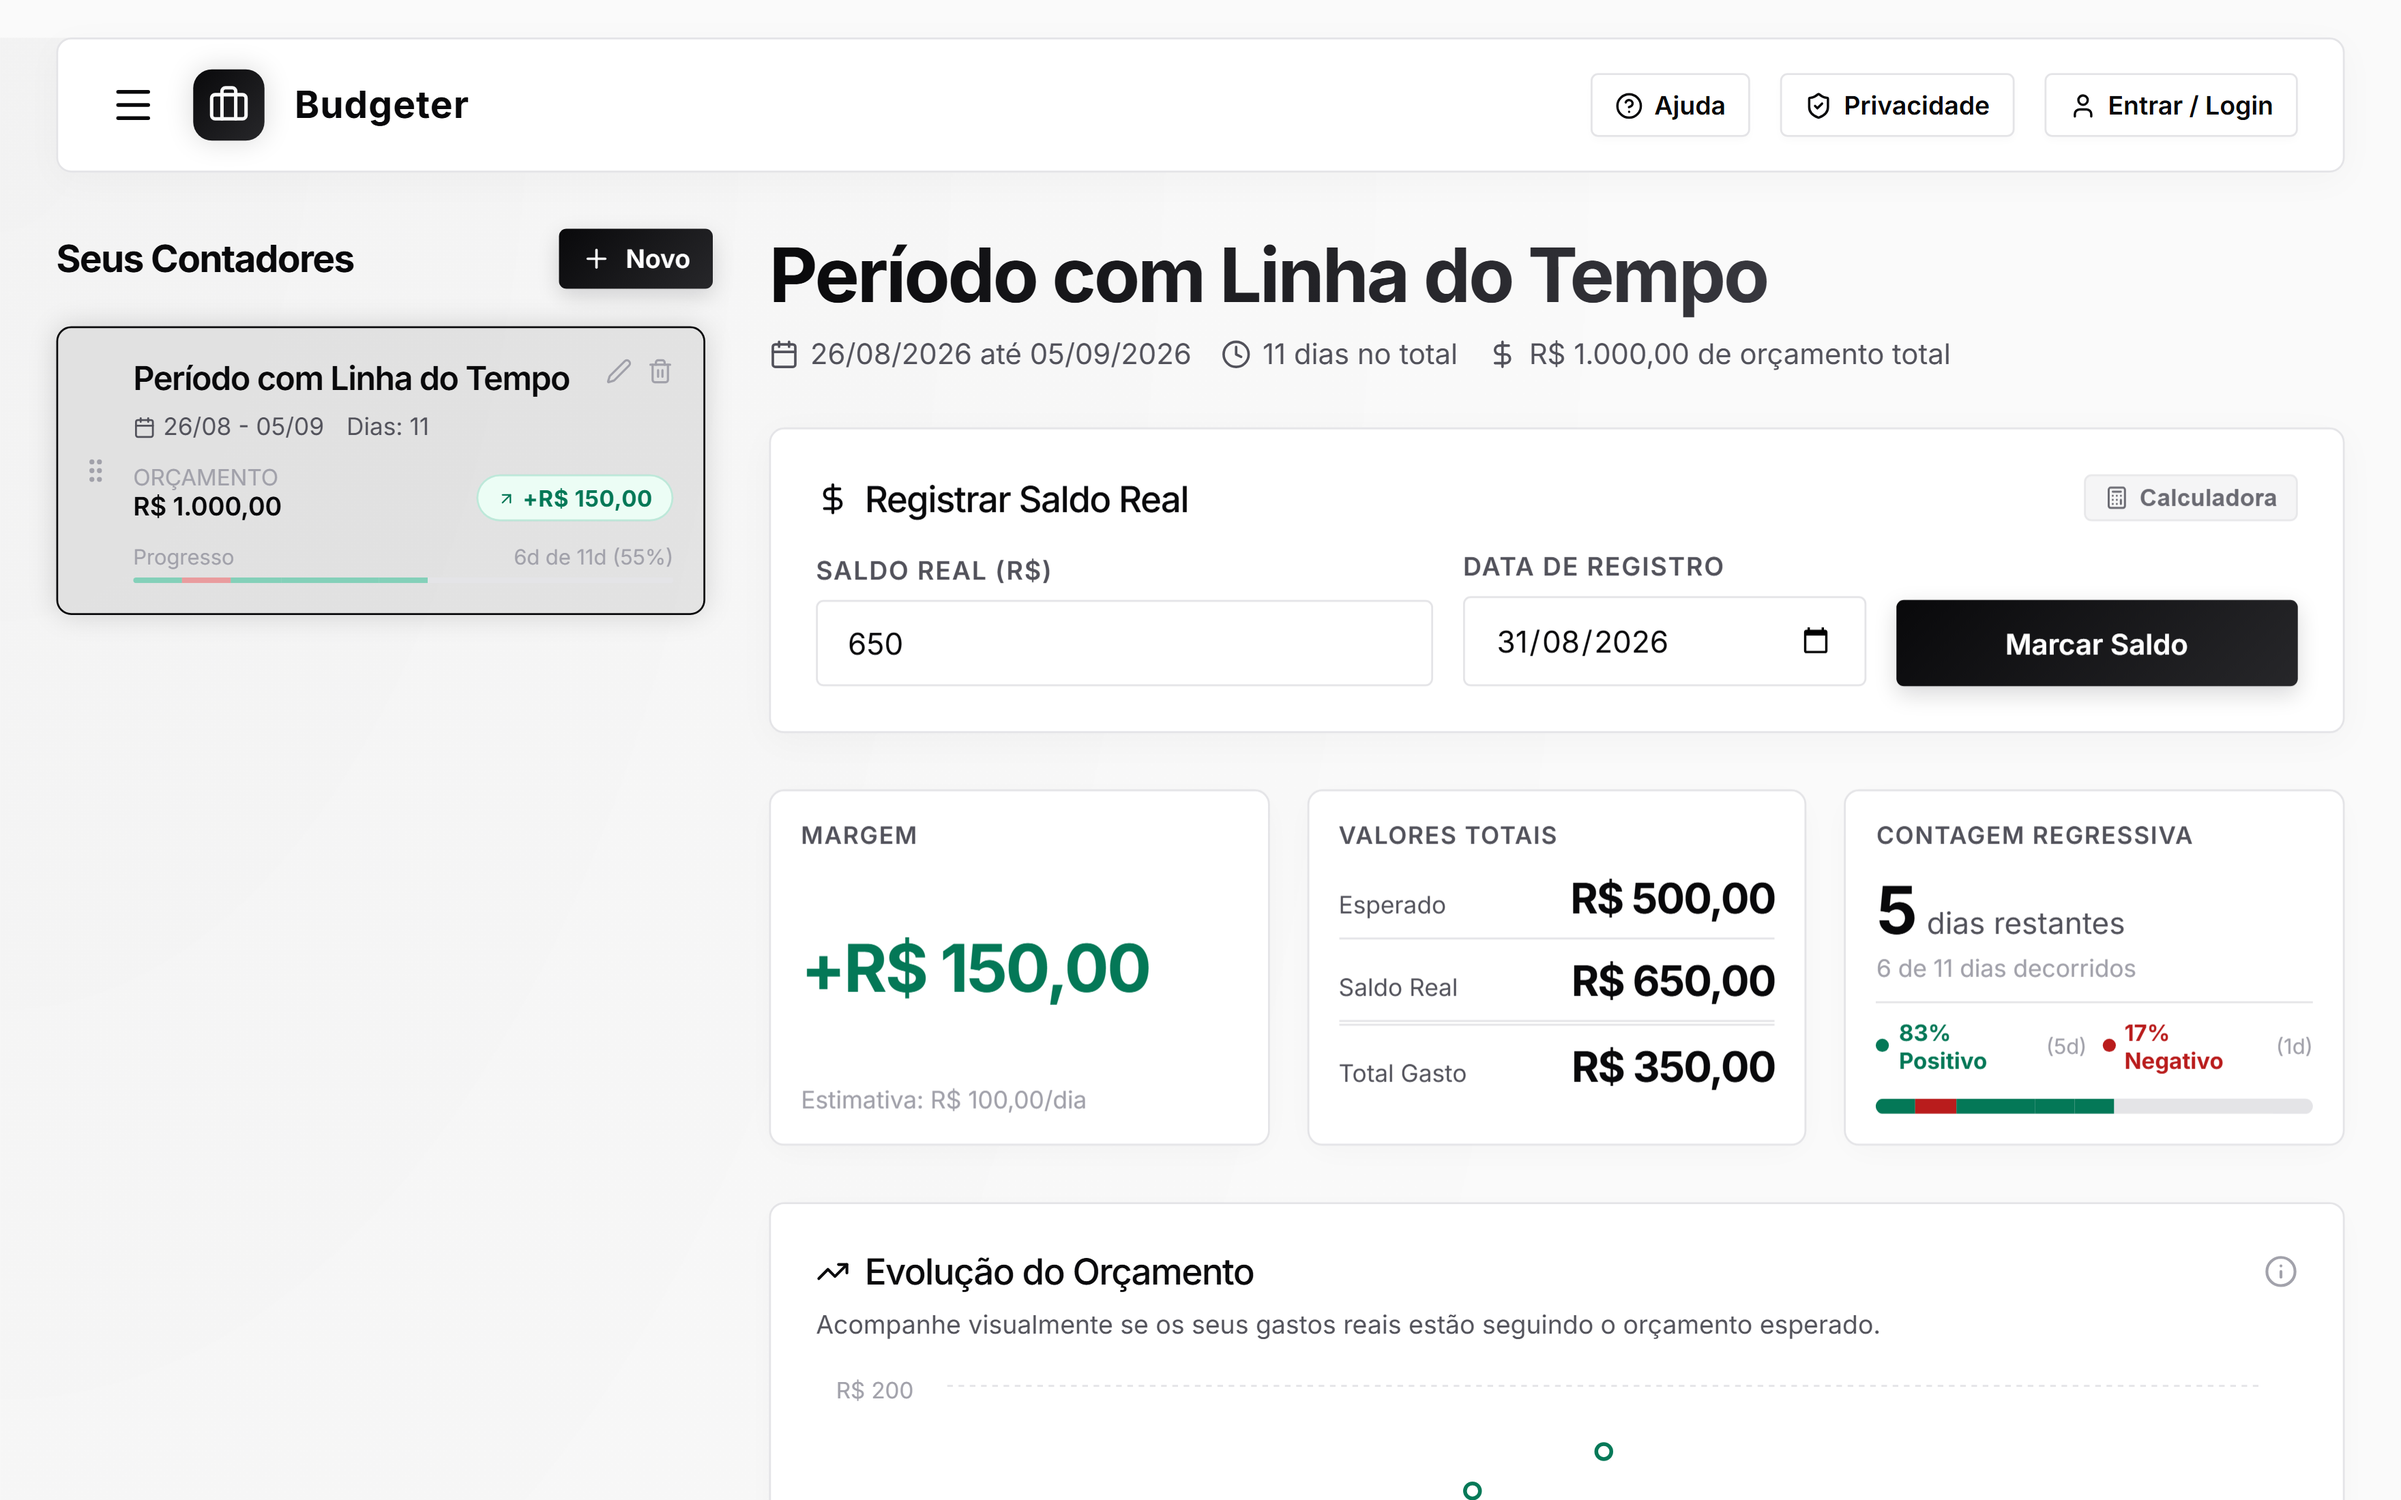
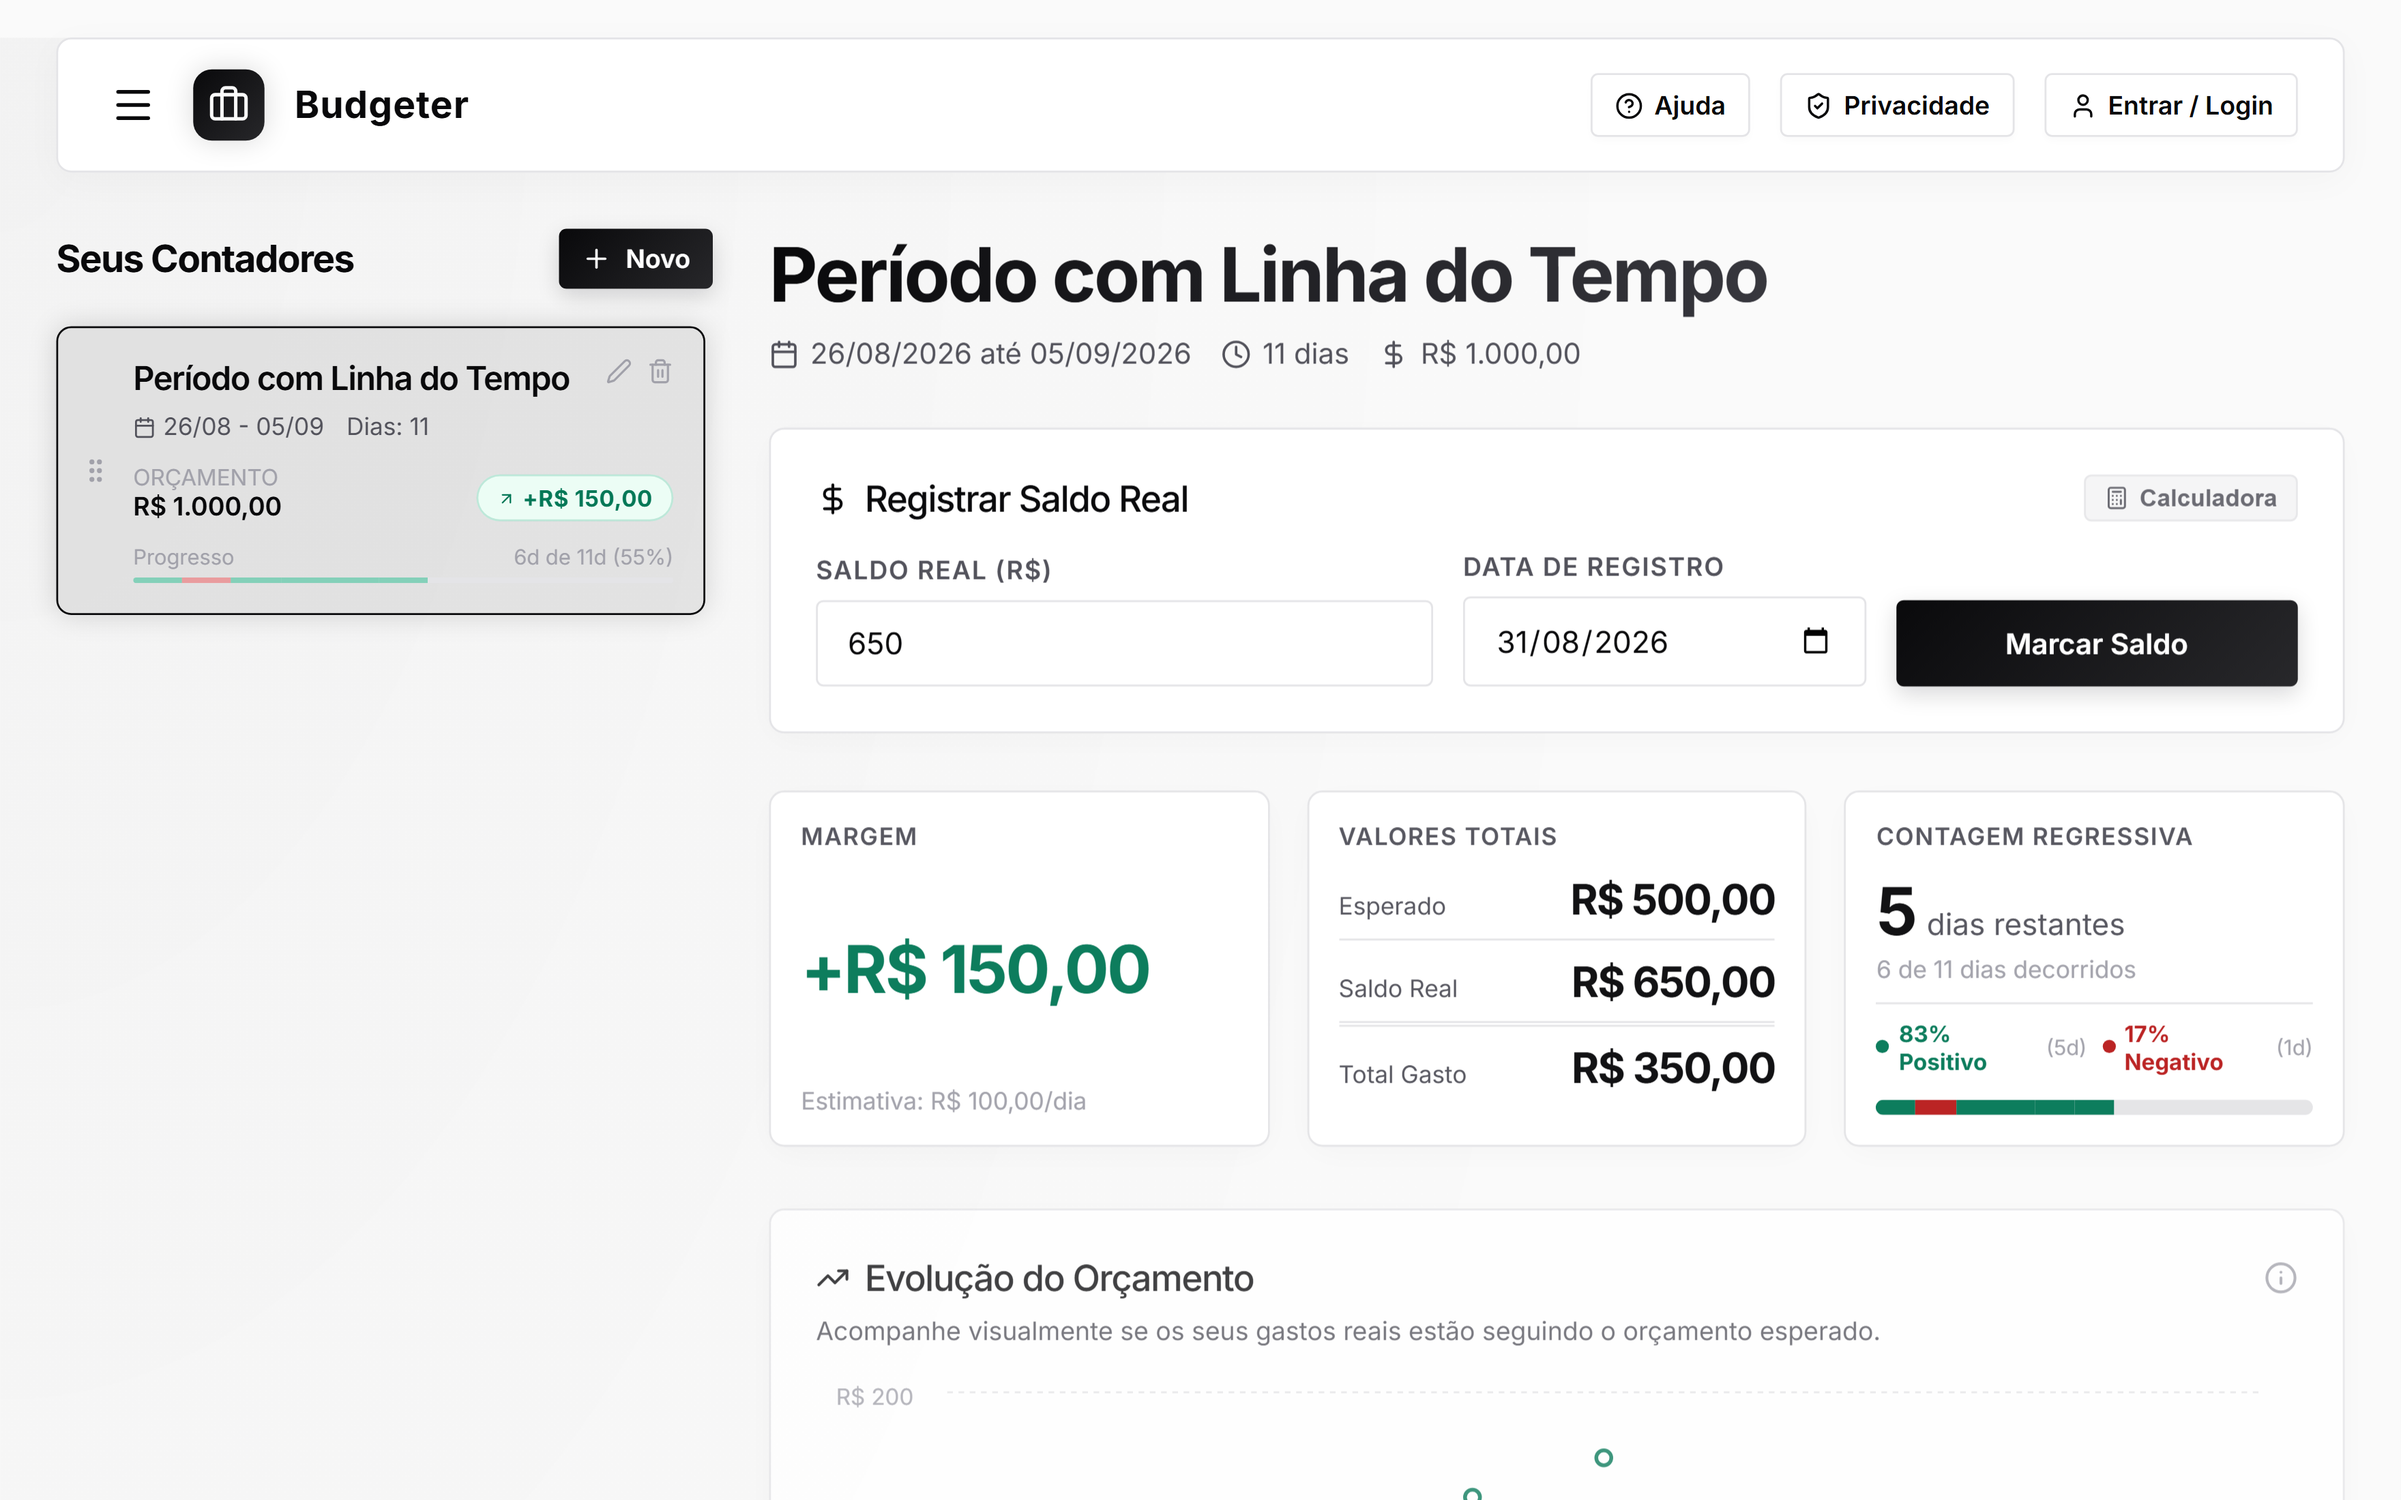
refactor: simplificar rotulos de dias e orcamento no cabecalho do periodo (v1.6.2)

diff --git a/playwright-report/index.html b/playwright-report/index.html
@@ -87,4 +87,4 @@ Error generating stack: `+l.message+`
     <div id='root'></div>
   </body>
 </html>
[2 lines of base64/hex data omitted]

diff --git a/src/components/PeriodDetail.tsx b/src/components/PeriodDetail.tsx
@@ -443,10 +443,10 @@ export const PeriodDetail: React.FC<PeriodDetailProps> = ({
             <Calendar size={16} /> {formatDate(period.startDate)} até {formatDate(period.endDate)}
           </span>
           <span style={{ display: 'flex', alignItems: 'center', gap: '6px' }}>
-            <Clock size={16} /> {metrics.totalDays} dias no total
+            <Clock size={16} /> {metrics.totalDays} dias
           </span>
           <span style={{ display: 'flex', alignItems: 'center', gap: '6px' }}>
-            <DollarSign size={16} /> {formatCurrency(period.initialBudget)} de orçamento total
+            <DollarSign size={16} /> {formatCurrency(period.initialBudget)}
           </span>
         </div>
       </div>

diff --git a/tests/mobile-header.spec.ts b/tests/mobile-header.spec.ts
@@ -65,8 +65,10 @@ test.describe('Mobile Header Layout', () => {
     }, mockPeriod);
 
     await page.goto('/');
-    await expect(page.locator('h1')).toContainText('ago26');
-    await expect(page.getByText('R$ 2.500,00 de orçamento total')).toBeVisible();
+    const header = page.locator('h1').locator('..');
+    await expect(header.locator('h1')).toContainText('ago26');
+    await expect(header.getByText('31 dias')).toBeVisible();
+    await expect(header.getByText('R$ 2.500,00')).toBeVisible();
   });
 });
 
